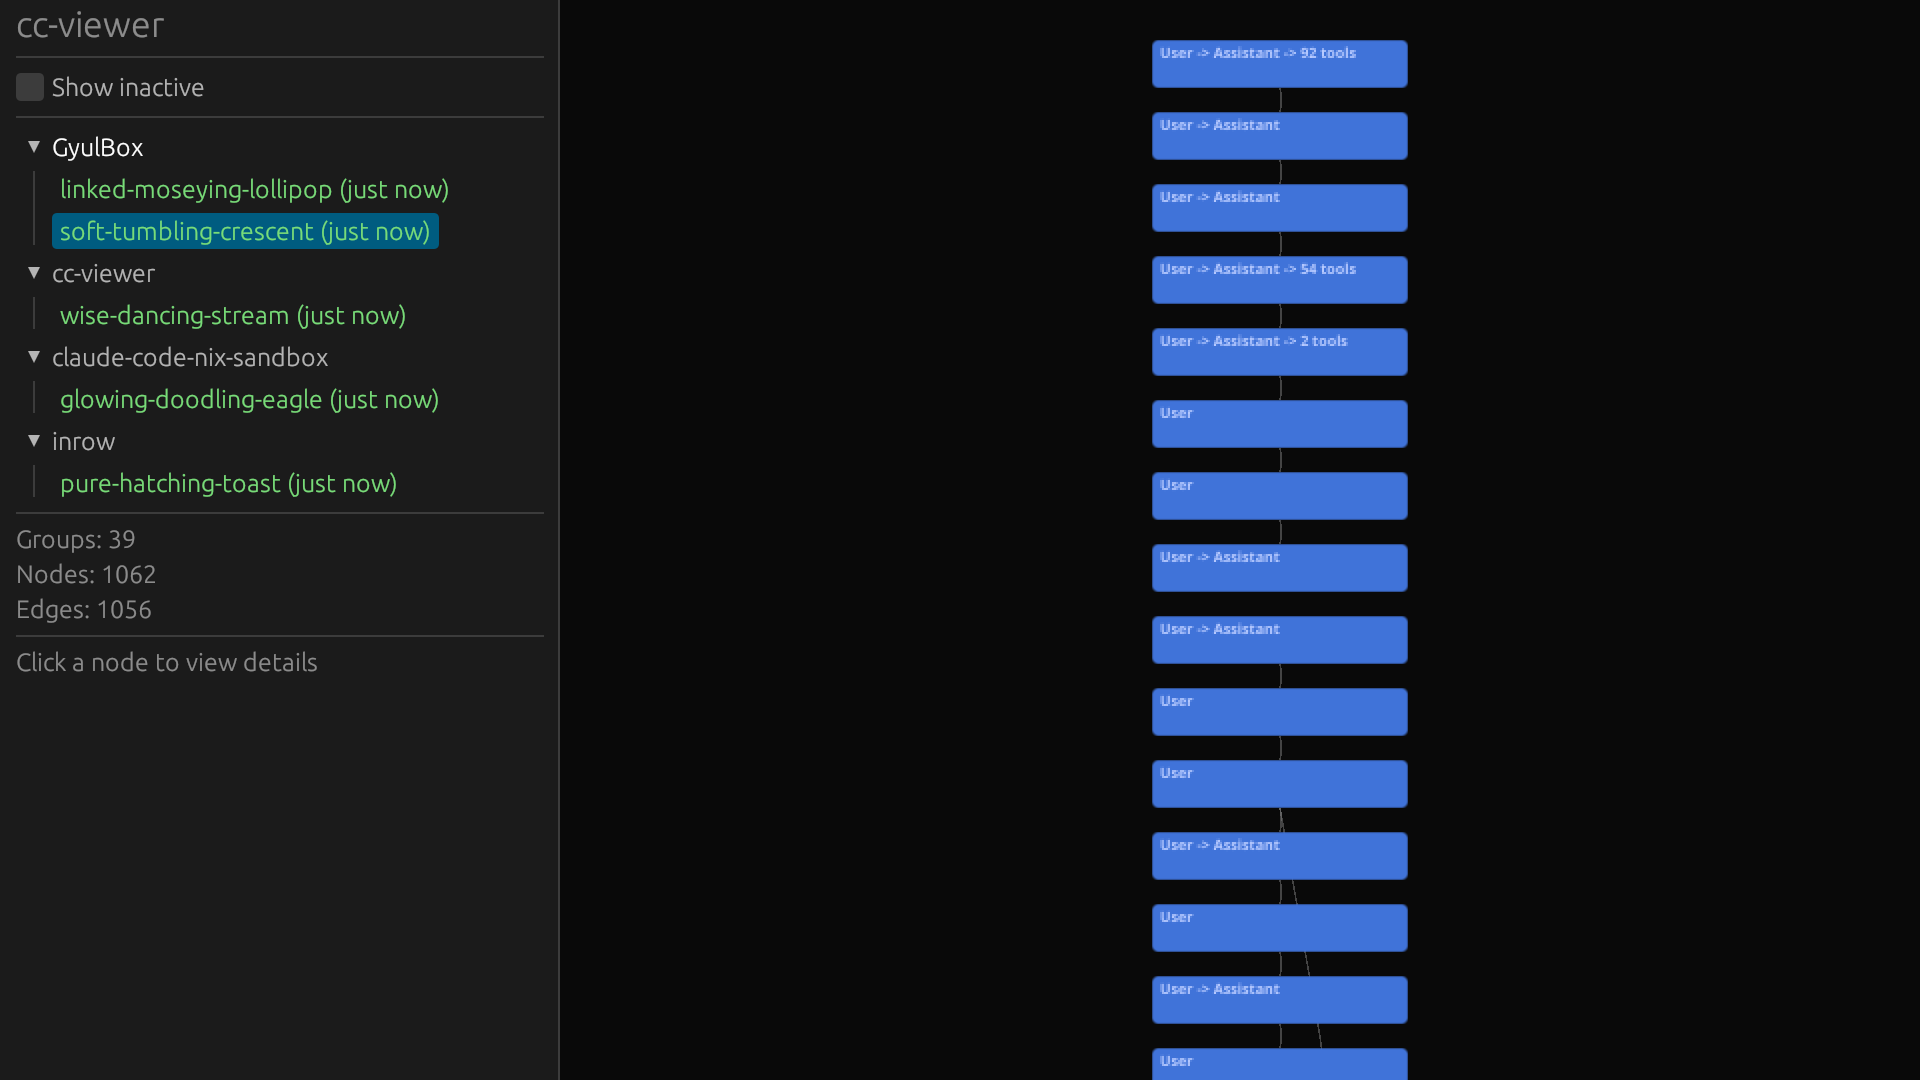
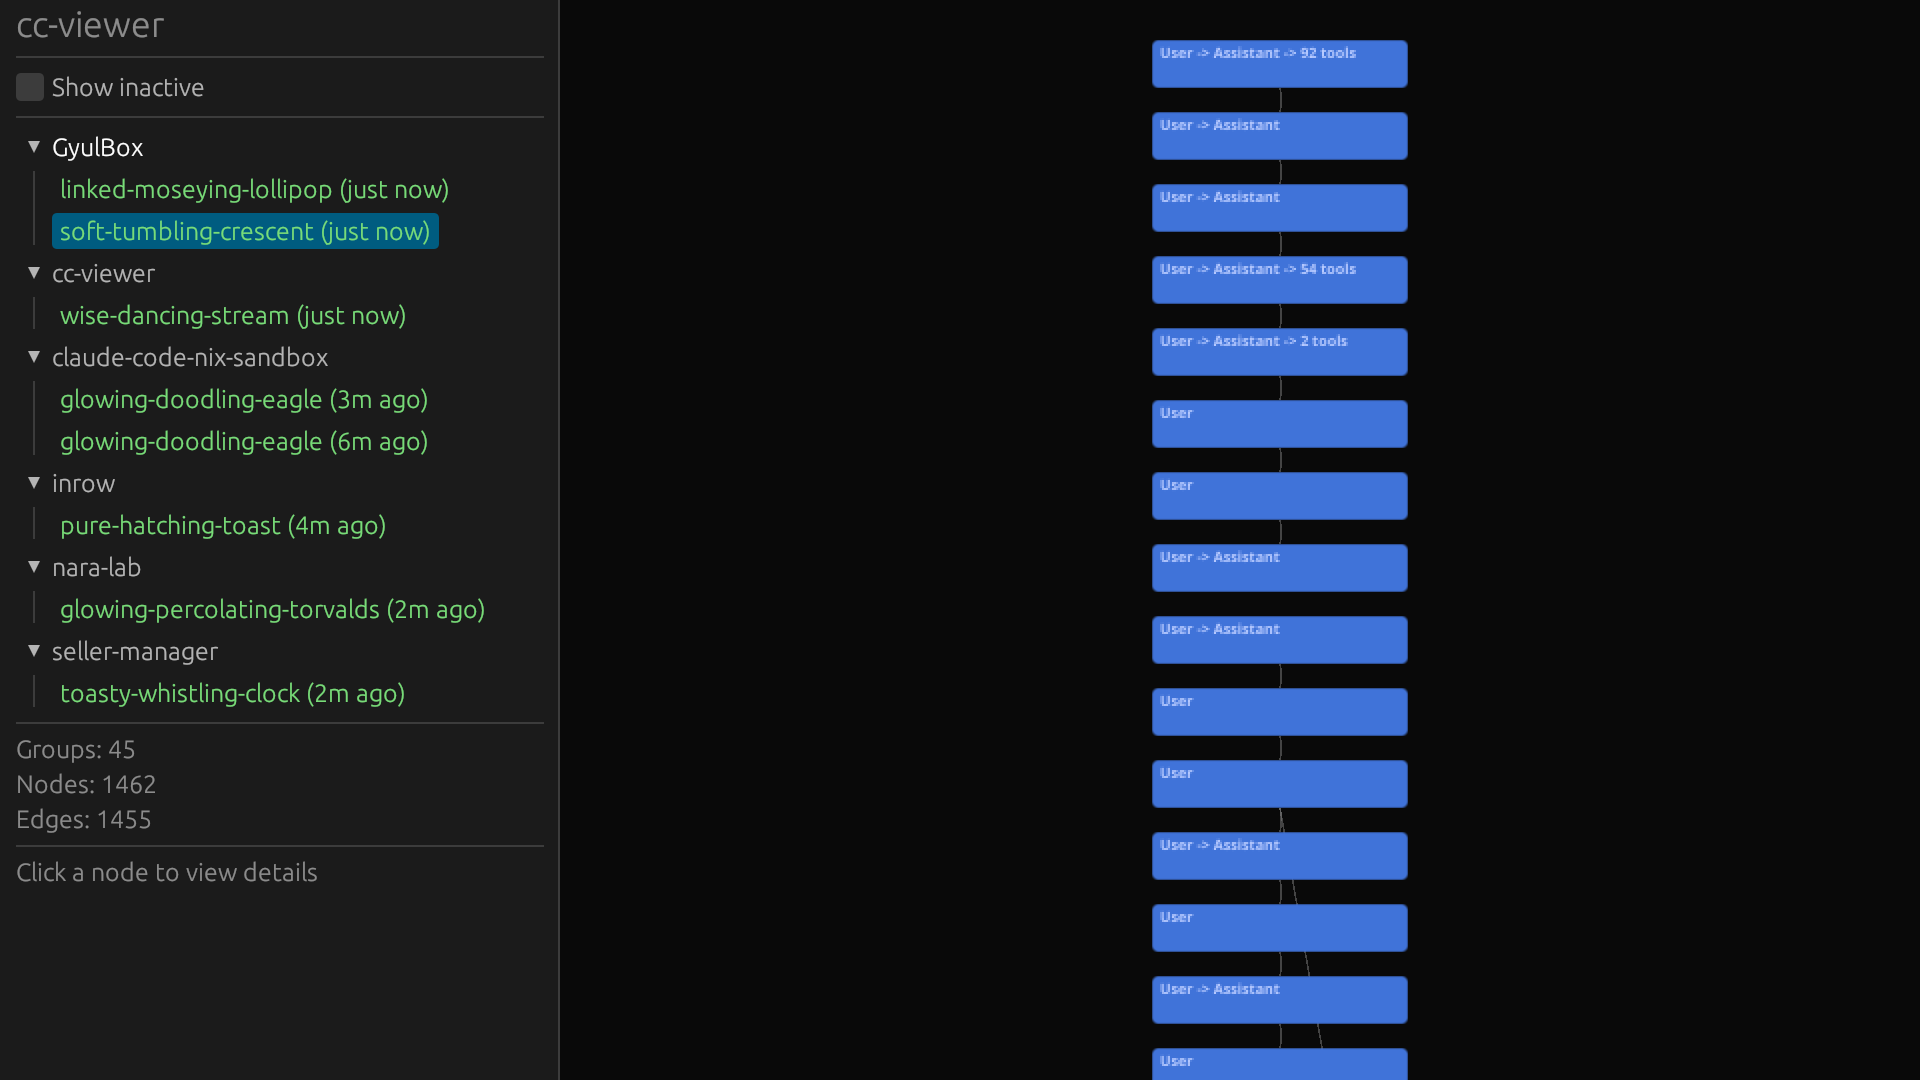
Fix README screenshot descriptions to match actual content
- Shot 1: "All sessions" with Show inactive checked (was "Session overview")
- Shot 2: "Active sessions only" with Show inactive unchecked (was "All sessions")
- Shot 3: "Session view" with accurate stats (was wrong group/node counts)
- Removed shot 4 reference (was identical to shot 3, claimed node expansion)
- Updated docs/introduction.md and graph-guide.md to match

Changed region(s): [[0.0, 0.3667, 0.25, 0.7639], [0.0, 0.7944, 0.1562, 0.825]]

diff --git a/README.md b/README.md
@@ -6,23 +6,19 @@ Live session visualizer for [Claude Code](https://docs.anthropic.com/en/docs/cla
 
 ## Screenshots
 
-**Session overview** — sidebar tree groups sessions by project, canvas shows conversation turns as a vertical stream:
+**All sessions** — "Show inactive" reveals every session across projects, with relative timestamps (green = active, gray = inactive):
 
-![Overview](docs/src/images/01_overview.png)
+![All sessions](docs/src/images/01_overview.png)
 
-**All sessions** — toggle "Show inactive" to see older sessions with relative timestamps and color coding (green = active, gray = inactive):
+**Active sessions only** — uncheck "Show inactive" to filter down to live sessions. Stats show 67 conversation groups across 3017 nodes:
 
-![All sessions](docs/src/images/02_all_sessions.png)
+![Active sessions](docs/src/images/02_all_sessions.png)
 
-**Session with many turns** — switching to a session with 22 conversation groups, 287 nodes:
+**Session view** — selecting a session renders its conversation as a vertical stream of grouped turns. Each node shows the flow: User -> Assistant -> N tools:
 
-![Session switch](docs/src/images/03_session_switch.png)
+![Session view](docs/src/images/03_session_switch.png)
 
-**Node expanded** — click a node to expand it in-place, showing content. Sidebar shows node details:
-
-![Node expanded](docs/src/images/04_node_expanded.png)
-
-**Zoomed out** — scroll to zoom out for a bird's-eye view of the full session:
+**Zoomed out** — scroll to zoom out for a bird's-eye view of the full session timeline:
 
 ![Zoomed out](docs/src/images/05_zoomed_out.png)
 

diff --git a/docs/src/introduction.md b/docs/src/introduction.md
@@ -6,23 +6,19 @@ When Claude Code runs, it writes append-only JSONL logs recording every message,
 
 ## What it looks like
 
-The sidebar groups sessions by project. The canvas shows conversation turns as a vertical stream of colored blocks:
+"Show inactive" reveals every session across all projects, with relative timestamps. Active sessions appear green, inactive ones gray:
 
-![Overview](images/01_overview.png)
+![All sessions](images/01_overview.png)
 
-Toggle "Show inactive" to see older sessions with relative timestamps. Active sessions appear green, inactive ones gray:
+Uncheck "Show inactive" to filter down to live sessions only:
 
-![All sessions](images/02_all_sessions.png)
+![Active sessions](images/02_all_sessions.png)
 
-Switching to a session with many conversation turns — each block represents a User/Assistant/Tool exchange:
+Selecting a session renders its conversation as a vertical stream. Each node shows the flow (User -> Assistant -> N tools):
 
-![Session with many turns](images/03_session_switch.png)
+![Session view](images/03_session_switch.png)
 
-Click a node to expand it in-place, revealing its content. The sidebar shows node details (kind, ID, raw content):
-
-![Node expanded](images/04_node_expanded.png)
-
-Scroll to zoom out for a bird's-eye view of the full session:
+Scroll to zoom out for a bird's-eye view of the full session timeline:
 
 ![Zoomed out](images/05_zoomed_out.png)
 

diff --git a/docs/src/graph-guide.md b/docs/src/graph-guide.md
@@ -28,8 +28,6 @@ Edges connect sequential conversation groups as curved lines flowing top to bott
 
 Click any node to expand it in-place. The expanded view shows a terminal-like content log:
 
-![Node expanded](images/04_node_expanded.png)
-
 - `>>>` prefix marks user input
 - `$` prefix marks tool calls
 - `<-` prefix marks tool results
